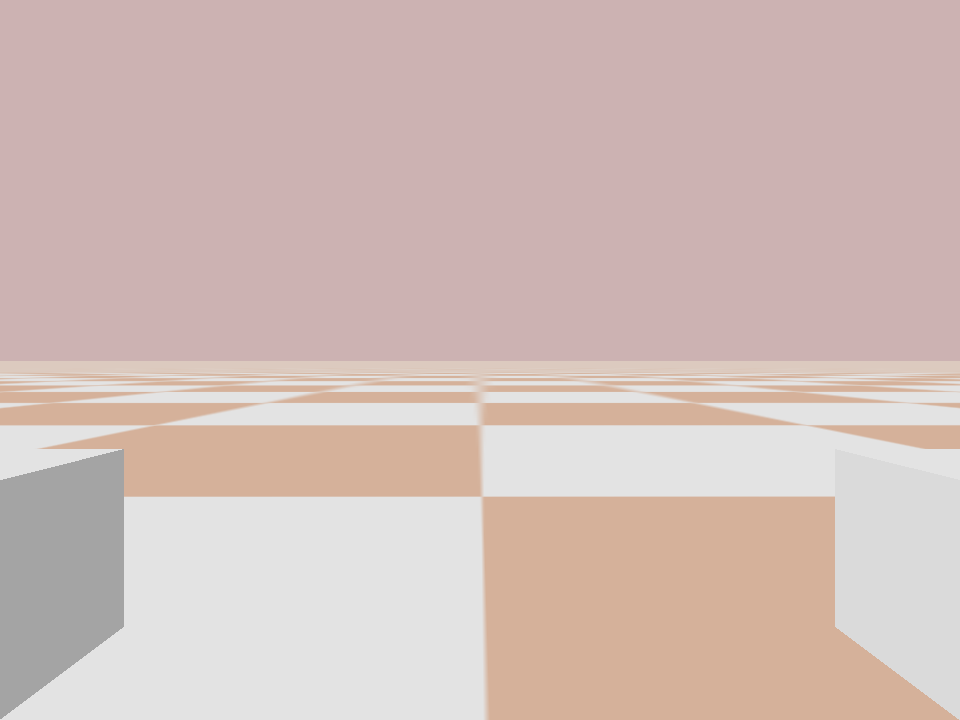
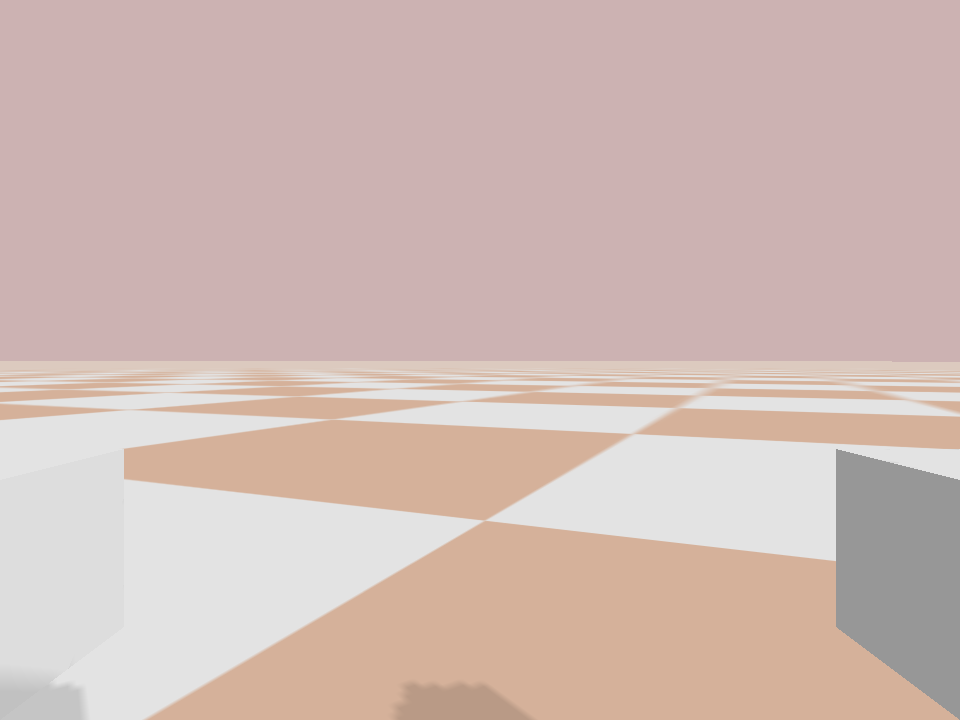
added contact sensor to palm link

Changed region(s): [[0.0, 0.5194, 1.0, 1.0]]

diff --git a/underactuated_manipulation_gym/resources/queenie.py b/underactuated_manipulation_gym/resources/queenie.py
@@ -13,10 +13,10 @@ class Queenie_Robot():
 
         self._setup_joint_motors()
         # self._setup_gear_constraints()
-        p.setJointMotorControl2(self.robot, 1, p.POSITION_CONTROL, targetPosition=0)
-        p.setJointMotorControl2(self.robot, 2, p.POSITION_CONTROL, targetPosition=0)
-        p.setJointMotorControl2(self.robot, 4, p.POSITION_CONTROL, targetPosition=0.5, force=20)
-        p.setJointMotorControl2(self.robot, 5, p.POSITION_CONTROL, targetPosition=0.5, force=20)
+
+
+        self.camera_link_index = self._get_link_index("camera")
+        self.palm_link_index = self._get_link_index("palm")
     
     """
     Returns the client and robot ids
@@ -38,12 +38,16 @@ class Queenie_Robot():
     Applies the action to the robot
     """
     def apply_action(self, action):
-        v_left, v_right = action
+        v_left, v_right, neck_pos, neck_x_pos = action
         # wheels
         p.setJointMotorControl2(self.robot, 8, p.VELOCITY_CONTROL, targetVelocity=v_left)
         p.setJointMotorControl2(self.robot, 9, p.VELOCITY_CONTROL, targetVelocity=v_right)
         p.setJointMotorControl2(self.robot, 10, p.VELOCITY_CONTROL, targetVelocity=v_left)
         p.setJointMotorControl2(self.robot, 11, p.VELOCITY_CONTROL, targetVelocity=v_right)
+
+        # neck
+        p.setJointMotorControl2(self.robot, 1, p.POSITION_CONTROL, targetPosition=neck_pos)
+        p.setJointMotorControl2(self.robot, 2, p.POSITION_CONTROL, targetPosition=neck_x_pos)
     
     """
     Returns the observation of the robot in a dictionary format with
@@ -53,10 +57,14 @@ class Queenie_Robot():
         # Base position and orientation
         base_pose = p.getBasePositionAndOrientation(self.robot)
 
+        # contact points for palm link
+        contact_points = p.getContactPoints(bodyA=self.robot, linkIndexA=self.palm_link_index)
+
+        # Joint states
+
         # Get the POV of the "camera" link
-        camera_link_index = self._get_link_index("camera")
-        if camera_link_index != -1:
-            link_state = p.getLinkState(self.robot, camera_link_index)
+        if self.camera_link_index != -1:
+            link_state = p.getLinkState(self.robot, self.camera_link_index)
             camera_pos = link_state[0]
             camera_orn = link_state[1]
 
@@ -90,6 +98,7 @@ class Queenie_Robot():
             # Construct observation dictionary
             observation = {
                 "base_pose": base_pose,
+                "contact_points": contact_points,
                 "camera_rgb": rgb_img,
                 "camera_depth": depth_img
             }
@@ -105,6 +114,11 @@ class Queenie_Robot():
         for joint in range(p.getNumJoints(self.robot)):
             p.setJointMotorControl2(self.robot, joint, p.VELOCITY_CONTROL, targetVelocity=0, force=0)
             print(p.getJointInfo(self.robot, joint))
+        p.setJointMotorControl2(self.robot, 1, p.POSITION_CONTROL, targetPosition=0)
+        p.setJointMotorControl2(self.robot, 2, p.POSITION_CONTROL, targetPosition=0)
+        p.setJointMotorControl2(self.robot, 4, p.POSITION_CONTROL, targetPosition=0.5, force=20)
+        p.setJointMotorControl2(self.robot, 5, p.POSITION_CONTROL, targetPosition=0.5, force=20)
+        return
         
     def _setup_gear_constraints(self):
         front_left_wheel = 8

diff --git a/underactuated_manipulation_gym/envs/simple_driving_env.py b/underactuated_manipulation_gym/envs/simple_driving_env.py
@@ -7,6 +7,7 @@ import cv2
 
 from underactuated_manipulation_gym.resources.queenie import Queenie_Robot
 from underactuated_manipulation_gym.resources.plane import Plane
+from underactuated_manipulation_gym.resources.man_object import ObjectMan
 
 class DifferentialDriveEnv(gym.Env):
     def __init__(self):
@@ -17,6 +18,7 @@ class DifferentialDriveEnv(gym.Env):
         p.setRealTimeSimulation(0)
         self.robot = Queenie_Robot(self.client)
         self.plane = Plane(self.client)
+        self.object = ObjectMan(self.client)
 
         self.observation_space = self._get_observation_space()
         self.action_space = self._get_action_space()
@@ -37,12 +39,12 @@ class DifferentialDriveEnv(gym.Env):
 
     def step(self, action):
         # Extract the action components
-        v, w_angular = action
+        v, w_angular, neck_pos, neck_x_pos = action
 
         v_left = v - w_angular * 0.6 / 2
         v_right = v + w_angular * 0.6 / 2
 
-        action = [v_left, v_right]
+        action = [v_left, v_right, neck_pos, neck_x_pos]
 
         self.robot.apply_action(action)
 
@@ -68,6 +70,8 @@ class DifferentialDriveEnv(gym.Env):
         robot_state = self.robot.get_observation()
         # convert robot_state to environment_state (i.e. observation)
         queenie_pos, queenie_orn = robot_state["base_pose"]
+        contact_points = robot_state["contact_points"]
+        print(contact_points)
         try:
             camera_img = robot_state["camera_rgb"]
             cv2.imwrite("test.png", camera_img)
@@ -98,6 +102,18 @@ class DifferentialDriveEnv(gym.Env):
         # Define the observation space
         return spaces.Box(low=-np.inf, high=np.inf, shape=(2,), dtype=np.float32)
     
+    """
+    Define the action space
+    """
     def _get_action_space(self):
-        # Define the action space
-        return spaces.Box(low=-2, high=2, shape=(2,), dtype=np.float32)
+        min_linear_vel = -2
+        max_linear_vel = 2
+        min_angular_vel = -2
+        max_angular_vel = 2
+        min_neck_joint = -1
+        max_neck_joint = 0.21
+        min_neck_joint = -0.5
+        max_neck_joint = 0.5
+        min_action = [min_linear_vel, min_angular_vel, min_neck_joint, min_neck_joint]
+        max_action = [max_linear_vel, max_angular_vel, max_neck_joint, max_neck_joint]
+        return spaces.Box(low=np.array(min_action), high=np.array(max_action), dtype=np.float32)

diff --git a/test_env.py b/test_env.py
@@ -1,14 +1,14 @@
 import underactuated_manipulation_gym
 import gymnasium as gym
 import time
+import numpy as np
 env = gym.make("queenie_gym_envs/DifferentialDriveEnv-v0")
 env.reset()
 j = 0
 for i in range(1000000):
-    print(f"starting sleep")
-    time.sleep(1)
-    print(f"step {i}")
-    obs, reward, done, _, _ = env.step(env.action_space.sample())
+    action = env.action_space.sample()
+    action = np.zeros(4)
+    obs, reward, done, _, _ = env.step(action)
     if done:
         print(f"done {j}")
         env.reset()

diff --git a/underactuated_manipulation_gym/resources/man_object.py b/underactuated_manipulation_gym/resources/man_object.py
@@ -1,0 +1,14 @@
+import pybullet as p
+import pybullet_data
+import os
+
+
+class ObjectMan():
+    def __init__(self, client):
+        self.client = client
+        f_name = os.path.join(os.path.dirname(__file__), "urdfs/cuboid.urdf")
+        self.robot = p.loadURDF(f_name, [1.5, 0, 0.1], p.getQuaternionFromEuler([0, 0, 0]), physicsClientId=self.client)
+
+
+if __name__ == "__main__":
+    pass
